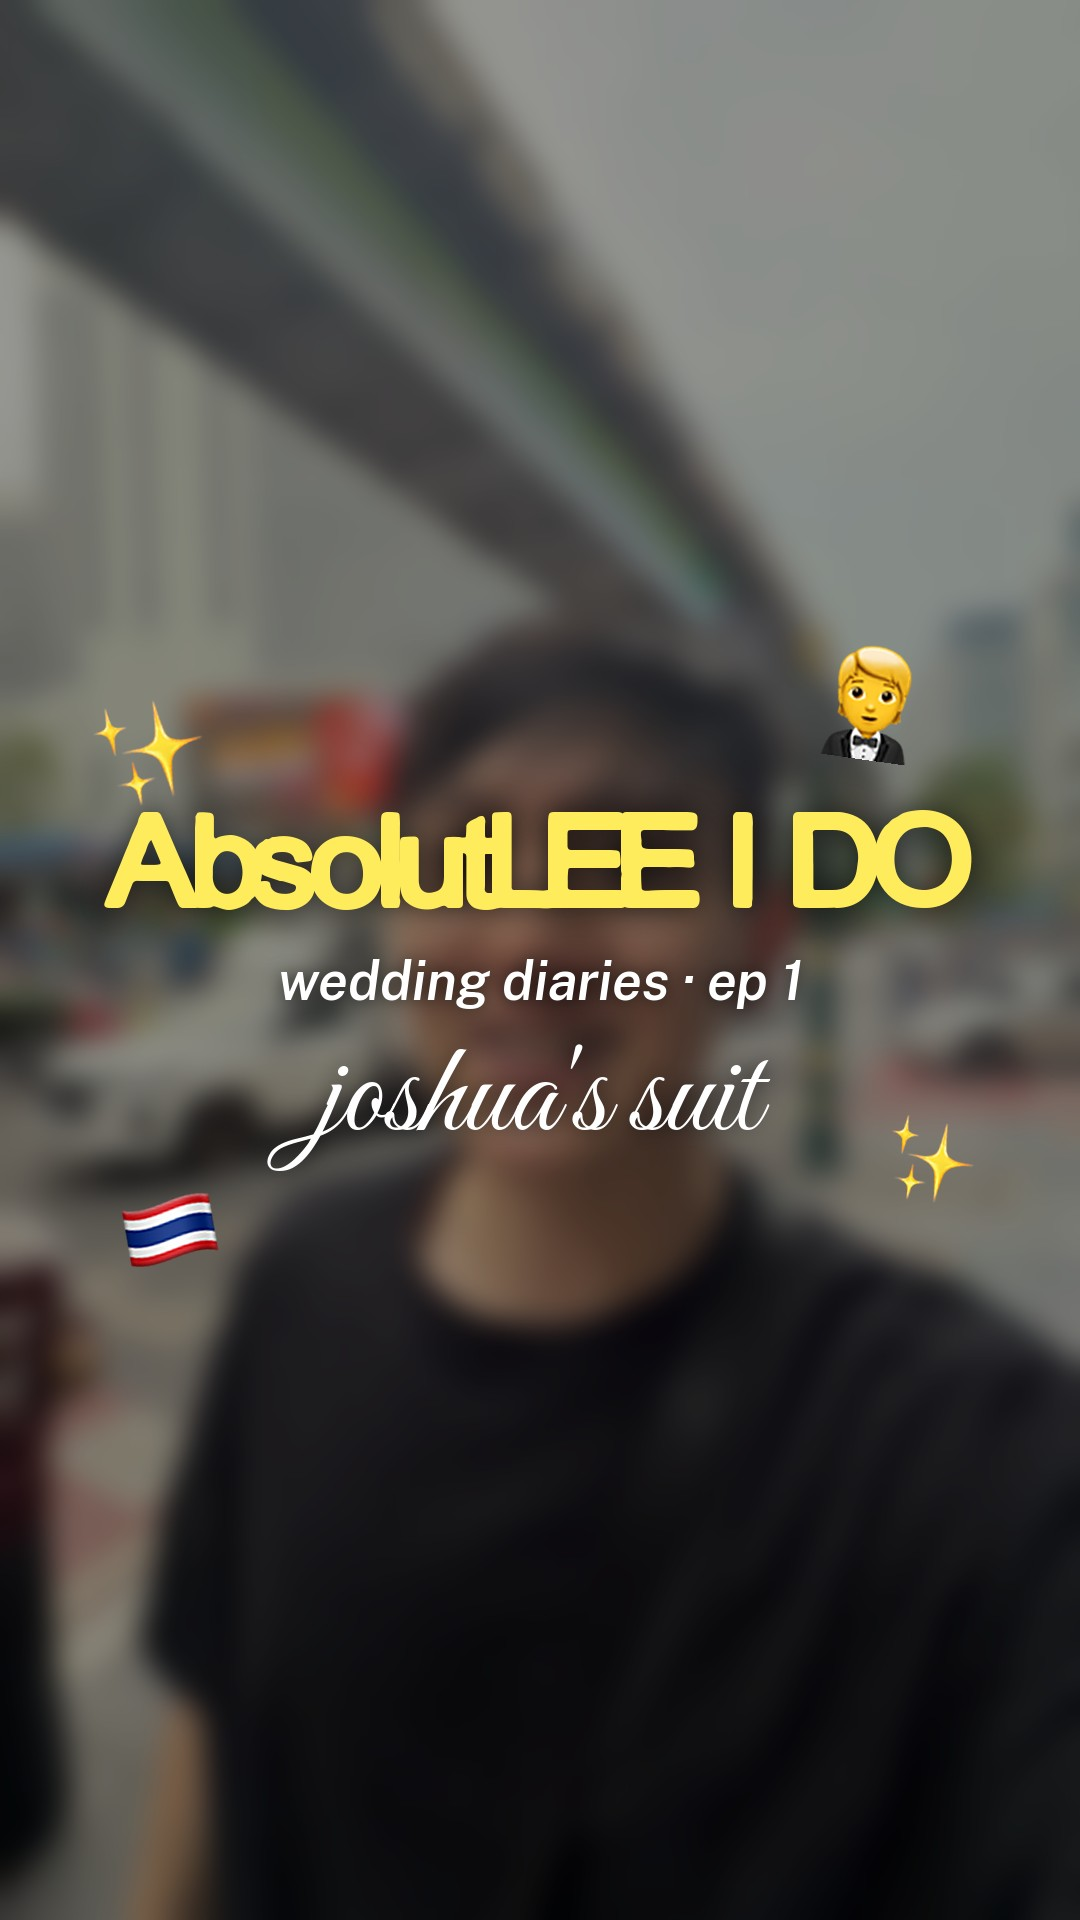
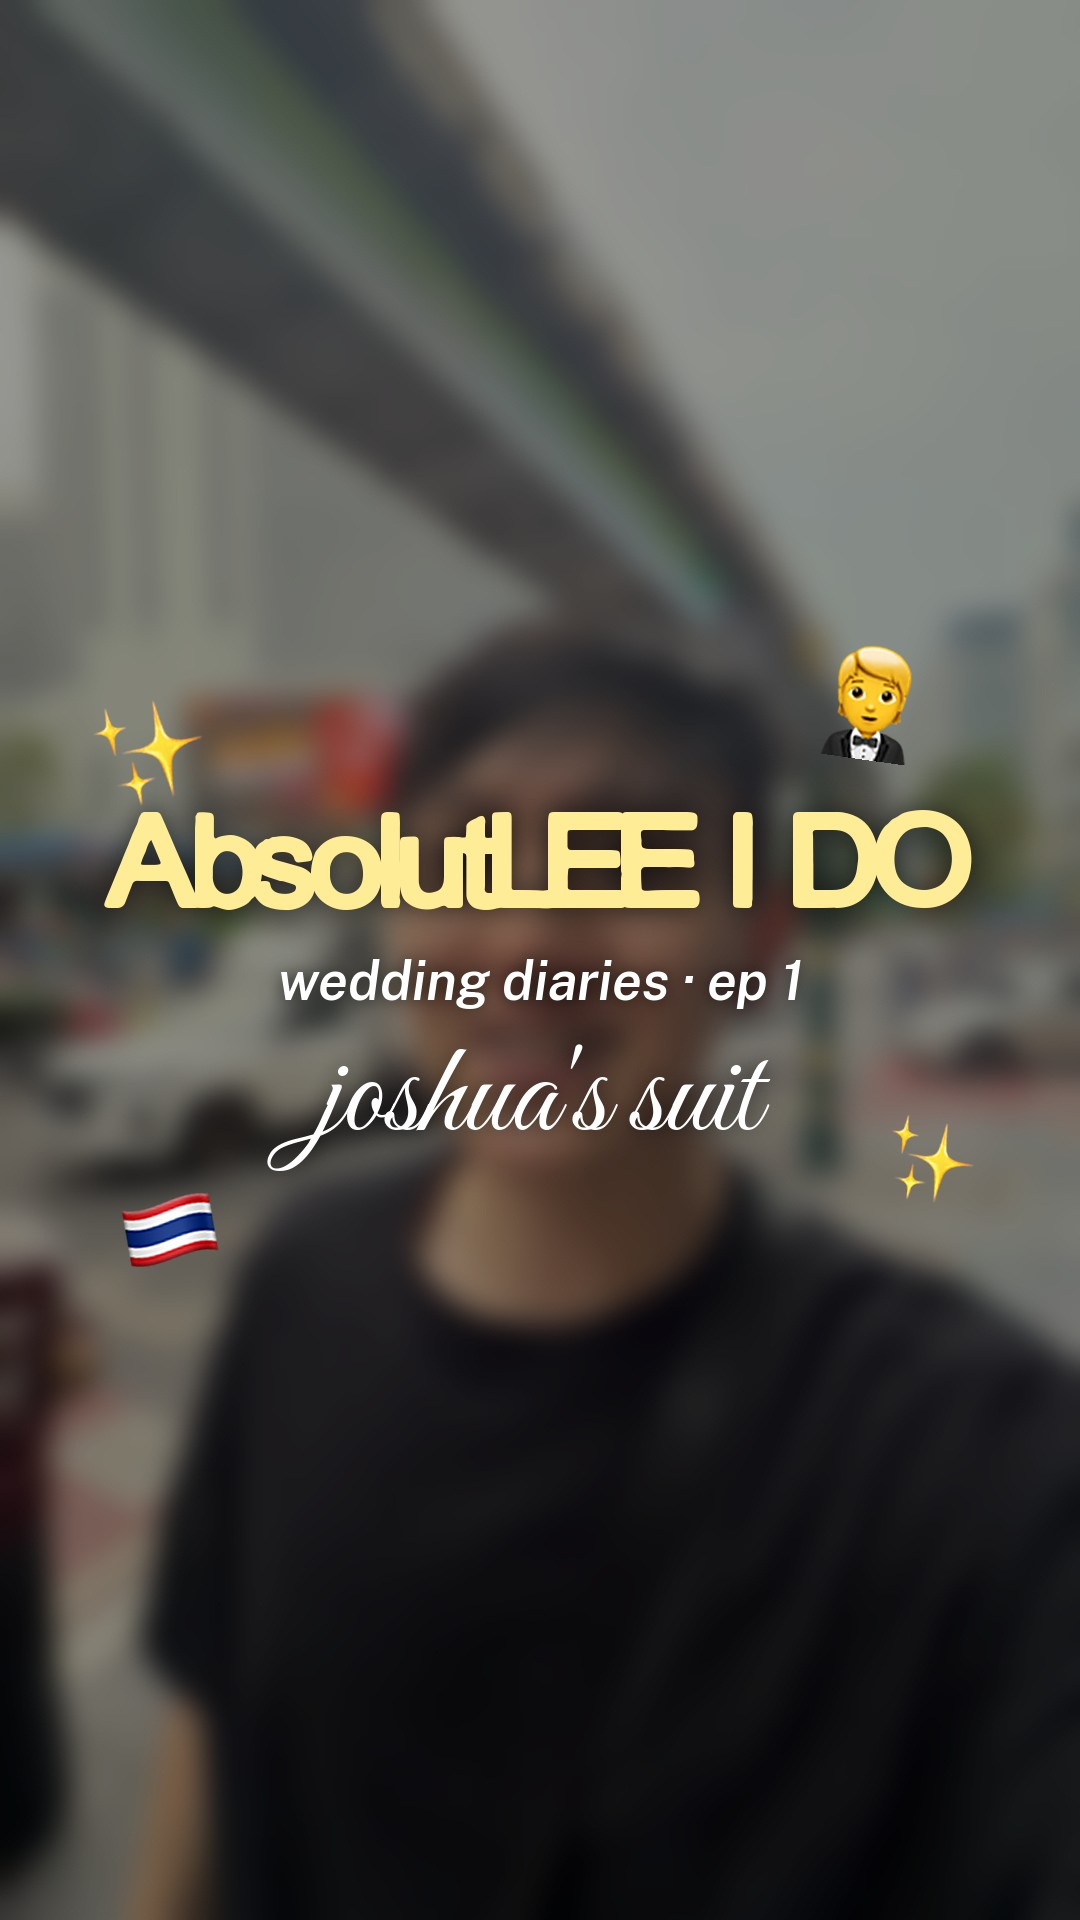
Ep 1: lighter butter yellow, continuous voiceover script
Claude-Session: https://claude.ai/code/session_01T9Xb58pVenXMcWoNtDPL6M

Changed region(s): [[0.0917, 0.4062, 0.6417, 0.5], [0.7333, 0.4062, 0.9167, 0.5], [0.6722, 0.4062, 0.7028, 0.4688]]

diff --git a/tools/style.py b/tools/style.py
@@ -4,7 +4,7 @@ from PIL import Image, ImageDraw, ImageFont, ImageFilter
 
 ROOT = Path(__file__).resolve().parent.parent
 FONTS, EMOJI = ROOT / 'fonts', ROOT / 'assets' / 'emoji_ios'   # Apple (iOS) emoji, 64px source
-BUTTER = (255, 236, 92)           # #FFEC5C bright, light butter yellow
+BUTTER = (255, 236, 150)          # #FFEC96 lighter butter yellow
 CREAM = (255, 250, 235)
 INK = (40, 36, 30)
 W, H = 1080, 1920

diff --git a/episodes/ep01_suit/storyboard.md b/episodes/ep01_suit/storyboard.md
@@ -16,20 +16,19 @@ Target length: about 1:20–1:30. Vertical 9:16. No music (sound added in TikTok
 - **Sat 7 Nov, evening:** fitting 2. Pants too long, shirt loose at the waist; both altered. Black suit adjusted.
 - **Mon 9 Nov, about 1:15pm:** final try-on (extra room requested for gym), beer, collection
 
-## Voiceover script (Joshua)
+## Voiceover script (Joshua): read as one continuous take, like telling a friend
 
-1. if you've seen our proposal prep videos… well, she said yes. so now it's wedding prep time.
-2. welcome to episode 1 of absolutlee i do, our wedding series. i flew to bangkok to get my wedding suits made. here's exactly how it went, how much it cost, and if it's worth it.
-3. we landed on friday, and by 5pm i was at ricky's fashion house in sukhumvit, recommended by a friend.
-4. i went in knowing exactly what i wanted: two suits. a classic black, single-breasted, and a bold burgundy, double-breasted with four buttons.
-5. then measurements. waist, hips, legs, shoulders. every. single. inch.
-6. the fun part is the lining. for the burgundy, they suggested pink flamingos to make the colour pop. for the black, a white and red pattern.
-7. that same night, fitting one. they put you in a skeleton suit to check the cut.
-8. saturday, fitting two. the pants were a bit long and the shirt a bit loose, so they adjusted both.
-9. tip: if you're hitting the gym before the wedding, tell them. i asked for a little extra room.
-10. monday, collection day. everything fit perfectly… and they even gave me a beer.
-11. all in: two 2-piece suits, a shirt and two ties, alterations included, for S$1,038. that's about five hundred per suit.
-12. would i recommend them? yes. friendly team, great advice, and they really know their suits. ep 2 coming soon.
+> if you've seen our proposal prep videos… well, she said yes. so now it's officially wedding prep time. welcome to episode one of absolutlee i do, and we're kicking things off with my suits, because i flew all the way to bangkok to get them made. here's how it went, what it cost, and whether it was worth it.
+>
+> we landed on friday, and by five i was at ricky's fashion house in sukhumvit, which a friend recommended. i already knew what i wanted: a classic black single-breasted, and a burgundy double-breasted with four buttons. and there are so many shades of burgundy, so of course i went for the boldest one.
+>
+> they measured literally everything, and then came my favourite part, the lining. they suggested something fun for the burgundy, so pink flamingos it was, which makes the colour pop even more, and a red pattern for the black.
+>
+> i came back that same night for my first fitting in a skeleton suit, and again on saturday, where they fixed the length of the pants and tightened the shirt. i even asked for a little extra room, since i'm back at the gym.
+>
+> by monday, everything fit perfectly, and they even handed me a beer. two suits, a shirt and two ties came up to about a thousand sgd, alterations included. would i recommend them? one hundred percent. all the details are on screen. see you in episode two.
+
+(about 235 words, roughly 1:25–1:30)
 
 **Original audio kept**
 - 1963: "let's go make some suits"
@@ -41,15 +40,15 @@ Target length: about 1:20–1:30. Vertical 9:16. No music (sound added in TikTok
 
 | # | Clips | Audio | On screen + motion |
 |---|---|---|---|
-| 0 | 1401 + 5387 proposal | VO 1 | Opens on the proposal: kneel, then the "she said yes" arm raise. Photo-frame still slides in with a whoosh, 💍 |
-| 1 | 2004 @8.5s (first fitting, WIP), then 2336 reveal and 2352 bag | VO 2 | **Title frame** (`still_title.jpg`, centred) lands on "welcome to episode 1…" with a sparkle SFX, and emojis pop in one by one. Then a quick 3-cut teaser of the end result, with flash and shutter SFX on a freeze frame. |
-| 3 | 1963 street, 1966/1967/1965 shopfront | OG 1963 ("let's go make some suits") + VO 3 | Whip pan. 📍 tag "ricky's fashion house, sukhumvit" |
-| 4 | 1968 fabric wall, 1976 rolls, 1971/1972/1974/1975 swatches (burgundy shades) | VO 4 | Text tags "black · single-breasted" and "burgundy · double-breasted, 4 buttons" pop in. 0.6s cuts, a pop on each. |
-| 5 | 1977 arm, 1994 neck, 1979 order book | VO 5 + OG 1977 | Punch-in zoom on each word, 📏, freeze-frame still of the order book |
-| 6 | 1983/1980–1982 flamingo lining, 1985–1991 red pattern lining | VO 6 | Polaroid stills with shutter SFX, 🦩, "*so fun*" in script |
-| 7 | 1999 walk in (night), 2004–2006 skeleton suit | VO 7 | "fitting 1" tag, whoosh |
-| 8 | 2121 shirt and pants (sat), 2332–2335 | VO 8 | "fitting 2" tag, quick cuts |
-| 9 | 2006 pinning shots | VO 9 | 💡 "tip" sticker |
-| 10 | 2336 **reveal** (OG tailor: "million bucks"), 2337/2338 beer | VO 10 + OG tailor | Slow-mo reveal, sparkle, "*so dapper*" in script, 😍, then 🍺 with a funny freeze frame |
-| 11 | 2341/2342 ties, 2339/2340 lining close-up, 2352/2353 collection | VO 11 + OG 2352 ("got my suit, let's go!") | Detail cuts, 🎉 |
-| 12 | Info card over blurred 2336, then collage | VO 12 | **Info card** (`still_infocard.jpg`) slides up with a ding, then "ep 2 coming soon ✨" |
+| 0 | 1401 + 5387 proposal | VO ¶1 | Opens on the proposal: kneel, then the "she said yes" arm raise. Photo-frame still slides in with a whoosh, 💍 |
+| 1 | 2004 @8.5s (first fitting, WIP), then 2336 reveal and 2352 bag | VO ¶1 | **Title frame** (`still_title.jpg`, centred) lands on "welcome to episode 1…" with a sparkle SFX, and emojis pop in one by one. Then a quick 3-cut teaser of the end result, with flash and shutter SFX on a freeze frame. |
+| 3 | 1963 street, 1966/1967/1965 shopfront | OG 1963 ("let's go make some suits") + VO ¶2 | Whip pan. 📍 tag "ricky's fashion house, sukhumvit" |
+| 4 | 1968 fabric wall, 1976 rolls, 1971/1972/1974/1975 swatches (burgundy shades) | VO ¶2 | Text tags "black · single-breasted" and "burgundy · double-breasted, 4 buttons" pop in. 0.6s cuts, a pop on each. |
+| 5 | 1977 arm, 1994 neck, 1979 order book | VO ¶3 + OG 1977 | Punch-in zoom on each word, 📏, freeze-frame still of the order book |
+| 6 | 1983/1980–1982 flamingo lining, 1985–1991 red pattern lining | VO ¶3 | Polaroid stills with shutter SFX, 🦩, "*so fun*" in script |
+| 7 | 1999 walk in (night), 2004–2006 skeleton suit | VO ¶4 | "fitting 1" tag, whoosh |
+| 8 | 2121 shirt and pants (sat), 2332–2335 | VO ¶4 | "fitting 2" tag, quick cuts |
+| 9 | 2006 pinning shots | VO ¶4 | 💡 "tip" sticker |
+| 10 | 2336 **reveal** (OG tailor: "million bucks"), 2337/2338 beer | VO ¶5 + OG tailor | Slow-mo reveal, sparkle, "*so dapper*" in script, 😍, then 🍺 with a funny freeze frame |
+| 11 | 2341/2342 ties, 2339/2340 lining close-up, 2352/2353 collection | VO ¶5 + OG 2352 ("got my suit, let's go!") | Detail cuts, 🎉 |
+| 12 | Info card over blurred 2336, then collage | VO ¶5 | **Info card** (`still_infocard.jpg`) slides up with a ding, then "ep 2 coming soon ✨" |
